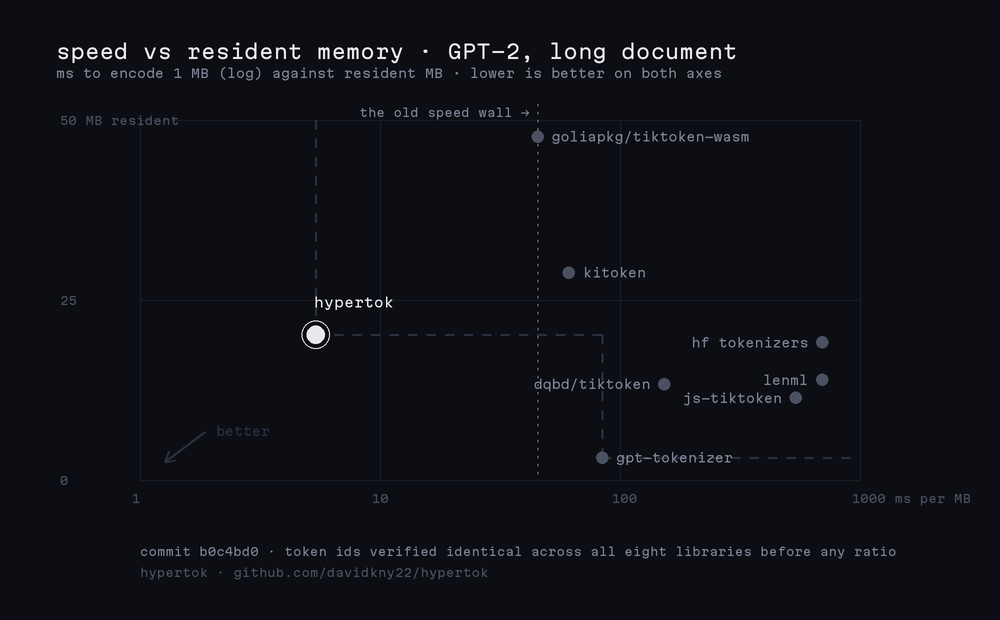
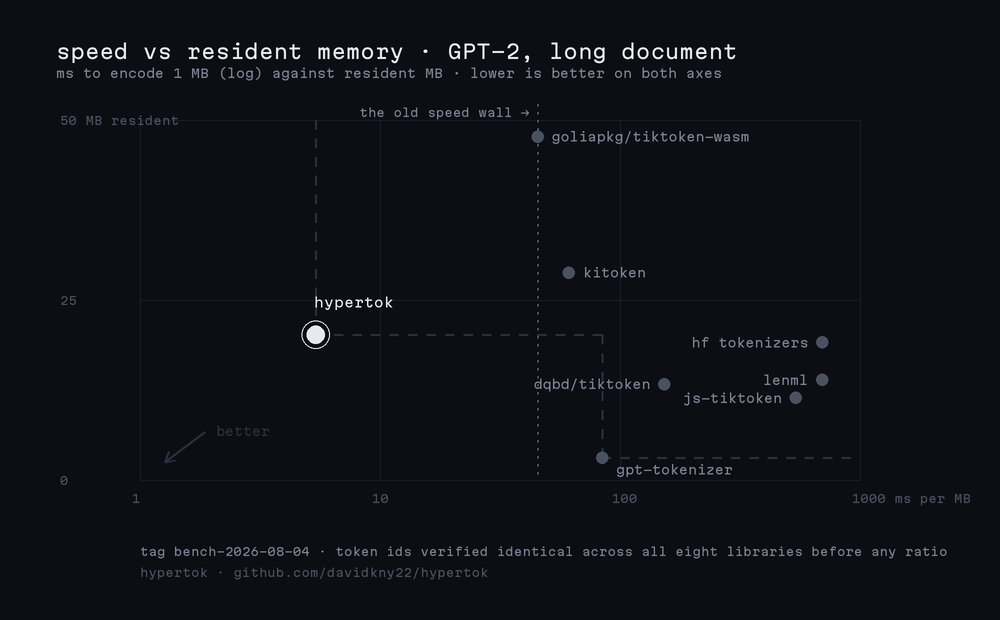
docs: cite the benchmark run by its public tag
The published run is now cited as tag bench-2026-08-04, which resolves
publicly to the measured code; the full record keeps the development
lineage hash in its identity table. Agreement language now anchors
correctness to each vocabulary's pinned reference implementation, and
the Pareto chart asset carries the tag in its footer.

Changed region(s): [[0.155, 0.8581, 0.713, 0.9194], [0.744, 0.8887, 0.899, 0.9194], [0.62, 0.7355, 0.744, 0.7661]]

diff --git a/hypertok-js/README.md b/hypertok-js/README.md
@@ -20,7 +20,7 @@ browser and in Node, measured on your machine, not ours.
 
 Isolated Chrome in a Linux container (EPYC 9V74), single thread, encode, GPT-2 vocabulary,
 n=5 to 11 per row and n=3 on the 50 MB corpus. Every incumbent runs at its documented fastest
-configuration, and token-id agreement is verified against the pinned Hugging Face reference
+configuration, and token-id agreement is verified against each vocabulary's pinned reference implementation
 before any ratio is accepted. Nothing is averaged into one headline score.
 
 At these rates the browser counts a hundred-kilobyte conversation in about a millisecond.
@@ -185,7 +185,7 @@ The full results, including decode, load, and resident memory, can be found here
 [BENCHMARKS.md](https://github.com/davidkny22/hypertok/blob/main/BENCHMARKS.md).
 
 <!-- container-arena:start -->
-The published run covers 546 measured rows at commit b0c4bd0, across two vocabularies, in Node
+The published run covers 546 measured rows at tag `bench-2026-08-04`, across two vocabularies, in Node
 and isolated Chrome. hypertok wins every measured encode comparison. On decode, it wins 239 of
 256, and all 17 losses sit in the fresh-container regime, listed row by row in BENCHMARKS.md.
 <!-- container-arena:end -->
@@ -215,8 +215,7 @@ believe, either way, that this represents a meaningful step in the right directi
 hypertok descends from [gigatoken](https://github.com/marcelroed/gigatoken) by Marcel Rød (MIT),
 whose engine we compiled, profiled, and then rebuilt for the web. The lineage includes gigatoken's
 own two-phase scanner, which had never been built for wasm before this project. We anchor
-correctness to exact agreement with the pinned Hugging Face reference implementation for every
-supported vocabulary.
+correctness to exact agreement with each vocabulary's pinned reference implementation.
 Vocabulary data comes from the model publishers named in each package's NOTICE. The demo bundles
 js-tiktoken, gpt-tokenizer, @dqbd/tiktoken, and @huggingface/tokenizers as live opponents, under
 their own licenses. Unicode data is Unicode 17.0.0.

diff --git a/README.md b/README.md
@@ -20,7 +20,7 @@ browser and in Node, measured on your machine, not ours.
 
 Isolated Chrome in a Linux container (EPYC 9V74), single thread, encode, GPT-2 vocabulary,
 n=5 to 11 per row and n=3 on the 50 MB corpus. Every incumbent runs at its documented fastest
-configuration, and token-id agreement is verified against the pinned Hugging Face reference
+configuration, and token-id agreement is verified against each vocabulary's pinned reference implementation
 before any ratio is accepted. Nothing is averaged into one headline score.
 
 At these rates the browser counts a hundred-kilobyte conversation in about a millisecond.
@@ -185,7 +185,7 @@ The full results, including decode, load, and resident memory, can be found here
 [BENCHMARKS.md](BENCHMARKS.md).
 
 <!-- container-arena:start -->
-The published run covers 546 measured rows at commit b0c4bd0, across two vocabularies, in Node
+The published run covers 546 measured rows at tag `bench-2026-08-04`, across two vocabularies, in Node
 and isolated Chrome. hypertok wins every measured encode comparison. On decode, it wins 239 of
 256, and all 17 losses sit in the fresh-container regime, listed row by row in BENCHMARKS.md.
 <!-- container-arena:end -->
@@ -215,8 +215,7 @@ believe, either way, that this represents a meaningful step in the right directi
 hypertok descends from [gigatoken](https://github.com/marcelroed/gigatoken) by Marcel Rød (MIT),
 whose engine we compiled, profiled, and then rebuilt for the web. The lineage includes gigatoken's
 own two-phase scanner, which had never been built for wasm before this project. We anchor
-correctness to exact agreement with the pinned Hugging Face reference implementation for every
-supported vocabulary.
+correctness to exact agreement with each vocabulary's pinned reference implementation.
 Vocabulary data comes from the model publishers named in each package's NOTICE. The demo bundles
 js-tiktoken, gpt-tokenizer, @dqbd/tiktoken, and @huggingface/tokenizers as live opponents, under
 their own licenses. Unicode data is Unicode 17.0.0.

diff --git a/BENCHMARKS.md b/BENCHMARKS.md
@@ -1,6 +1,6 @@
-# hypertok full benchmark, commit b0c4bd0
+# hypertok full benchmark, tag bench-2026-08-04
 
-**Result: PASS.** The `arena/full` command completed all 12 ordered commands on commit `b0c4bd0543d7d3ebb18194edce34d79521b09a1e`.
+**Result: PASS.** The `arena/full` command completed all 12 ordered commands on the code published at tag `bench-2026-08-04`, measured as commit `b0c4bd0543d7d3ebb18194edce34d79521b09a1e` in the development lineage.
 
 Generated from the run manifest on 2026-08-04 UTC. This report renders 756 of 756 performance records (546 measured, 210 unavailable) and preserves every comparison classification.
 
@@ -18,7 +18,8 @@ Generated from the run manifest on 2026-08-04 UTC. This report renders 756 of 75
 | Field | Value |
 | --- | --- |
 | Container hostname | ba8abf0d2661 |
-| Commit | b0c4bd0543d7d3ebb18194edce34d79521b09a1e |
+| Commit | b0c4bd0543d7d3ebb18194edce34d79521b09a1e (development lineage) |
+| Public tag | bench-2026-08-04 |
 | Public run key | 58a3fcccae1b8590f6585b073ea5b21687ca8eb786efa3d7e982759bf2267244 |
 | Session | container-b0c4bd0-full-3 |
 | Profile / mode | arena / full |
@@ -951,7 +952,8 @@ Displayed medians, p95 values, and ratios are rounded to three decimals; varianc
 These axes come from the booked browser ledger at commit `c6c1cb9`, measured in local
 cross-origin isolated Chrome 150 with gzip-as-served transfer and
 `measureUserAgentSpecificMemory` residency. The product paths these axes measure did not
-change between `c6c1cb9` and `b0c4bd0`.
+change between `c6c1cb9` and `b0c4bd0`. Both hashes identify states of the development
+lineage; the published code for this run is tag `bench-2026-08-04`.
 
 ### First-tokenize transfer, gzip as served
 
